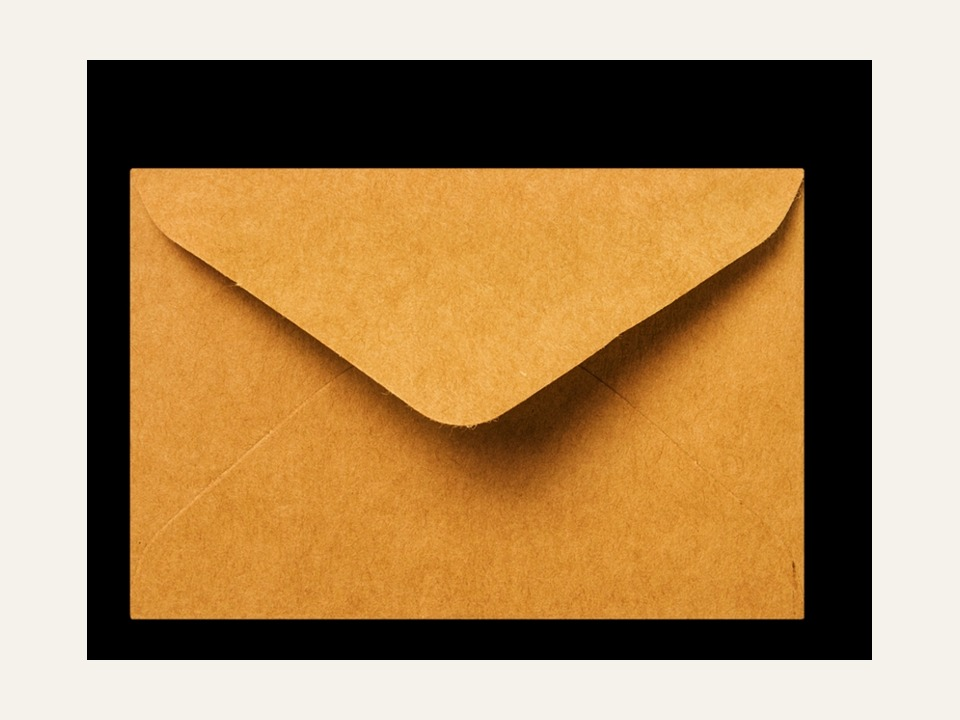
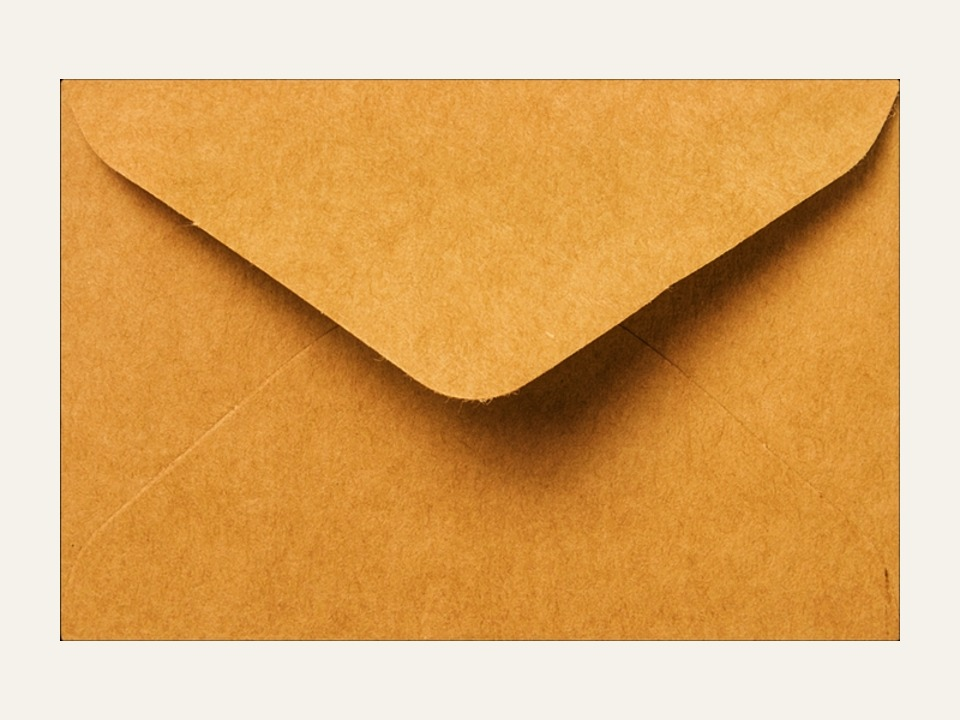
Remove envelope black frame and publish list 29 review packet

diff --git a/docs/native-language-review-checklist.md b/docs/native-language-review-checklist.md
@@ -1,6 +1,6 @@
 # Native-language editorial review checklist
 
-Status: **not yet reviewed by a native-language editor**. Prepared 2026-11-17 after the twenty-eighth practice update.
+Status: **not yet reviewed by a native-language editor**. Prepared 2026-11-17 after the twenty-ninth practice update.
 
 This is a handoff for a native German teacher/editor and an Egyptian Arabic reviewer. Passing automated checks does not establish idiomatic language, suitable difficulty or sound teaching. Level labels organize practice; they are not an official CEFR/Goethe mapping or assessment.
 
@@ -174,6 +174,17 @@ Sources were checked for these forms; that is not native editorial sign-off. Eac
 | [ ] | `/lessons/handarbeit/` | Review Stricknadel / Stricknadeln, Häkelnadel / Häkelnadeln, Stickrahmen / same-form plural and Egyptian Arabic senses. Three real photo cues; the needle source is rotated/cropped to the complete unbranded group. Check clarity at phone size. Source/licence checks are not native editorial approval. |
 | [ ] | `/dialogues/` and `/dictation/` | Review fresh question/translation/role state after switching hashes between dialogues; earlier progress must stay saved. New focused dictation has 40 sentences. Listen on a real German device voice; mocked utterances check text selection, not pronunciation. |
 
+### Twenty-ninth update: additional pending targets
+
+| Done | Route / location | What needs a human decision |
+| --- | --- | --- |
+| [ ] | `/reading/alltag-a1-umschlag/` | Check card/envelope/address language, today at six versus tomorrow, and all 4 answers. Check the linked dialogue **Noch Platz für einen Gruß**, family terms and its 3 answers separately. |
+| [ ] | `/reading/alltag-a2-briefablage/` | Check Ablage, beschriftet, flache Schachtel, oberes Fach, privacy sequence and all 4 answers. Review **Welche Umschläge sind frei?**, asking before taking, and its 3 answers. |
+| [ ] | `/reading/alltag-b1-stempeltisch/` | Check Abdruck, Zusage, Rückmeldung and decorative mark versus confirmed place. Do not turn the invented private invitation into real registration policy. Review **Nur ein Muster, keine Zusage**, privacy wording and all 7 evidence answers across the pair. |
+| [ ] | `/lessons/briefplatz/` | Check der Brieföffner / same-form plural, der Briefumschlag / Briefumschläge, der Stempel / same-form plural; Egyptian meanings and real unbranded photos. Does each photo clearly show the intended noun? Stamp is cropped away from branded ink bottle; Credits preserve sources/modifications. |
+| [ ] | `/grammar/akkusativ/`, `/grammar/possessiv/`, `/grammar/modalverben/`, `/grammar/imperativ/`, `/grammar/komparativ/`, `/grammar/dativ-praepositionen/` | Review the 24 appended correspondence-desk prompts/explanations and alternative correct forms. Existing saved question IDs must not move. |
+| [ ] | `/perfekt/` and `/dictation/` | Check all 6 unchanged Perfekt-context prompts with new locks/counts, selected-choice feedback and temporary scoped reset. Review the 41 new dictation sentences with a real German voice, separate from mocked pronunciation-free QA. No points/history are written by these two practice tools. |
+
 ## 2. Apply these checks to each text or exercise
 
 - [ ] German: spelling, capitalization, articles, cases, agreement, tense, word order and punctuation.
@@ -188,7 +199,7 @@ Sources were checked for these forms; that is not native editorial sign-off. Eac
 
 ## 3. Wider review queue after the focused batch
 
-This is an inventory, not completed review. Snapshot: **712 photo nouns / 73 topics**, **102 reading texts / 361 reading questions**, **41 core grammar topics / 622 core grammar questions**, **42 general dialogues**, plus **16 separate Egyptian-context dialogues**, **72 present-focus cells**. Separate specialist tools contain additional material not counted in the core grammar figure.
+This is an inventory, not completed review. Snapshot: **715 photo nouns / 74 topics**, **105 reading texts / 373 reading questions**, **41 core grammar topics / 646 core grammar questions**, **45 general dialogues**, plus **16 separate Egyptian-context dialogues**, **72 present-focus cells**. Separate specialist tools contain additional material not counted in the core grammar figure.
 
 | Queue | Reader entry point | Editable content |
 | --- | --- | --- |
@@ -200,7 +211,7 @@ This is an inventory, not completed review. Snapshot: **712 photo nouns / 73 top
 | Higher-level specialist material | `/b1/`, `/b2/`, `/c1/`, `/c2/` | Corresponding `*-grammar.ts`, `*-themes.ts`, reading and writing files; prioritize nuance and alternative valid answers |
 | Product language | `/progress/`, `/level-check/`, `/certificate/A1/` | Verify local-only records, repeated-attempt counts and non-official completion language; do not turn practice scores into proficiency claims |
 
-Reading distribution: A1 16 · A2 29 · B1 27 · B2 12 · C1 9 · C2 9. These are content counts, not evidence of full level coverage.
+Reading distribution: A1 17 · A2 30 · B1 28 · B2 12 · C1 9 · C2 9. These are content counts, not evidence of full level coverage.
 
 ## 4. Record findings so a fix is actionable
 

diff --git a/docs/twentyninth-product.md b/docs/twentyninth-product.md
@@ -1,11 +1,11 @@
 # Correspondence-desk extension and Perfekt context clarity
 
 - Append 24 six-topic grammar questions, bilingual explanations and unique supplied options. Existing topic/index identities remain intact.
-- Three checked photo nouns: der Brieföffner (same plural), der Briefumschlag / Briefumschläge, der Stempel (same plural). Earlier 712 words / 73 topics remain an exact prefix. Real unbranded objects, no people. Opener/envelope padded; stamp cropped away from a branded bottle and padded. Original author/license and modification notes remain in Credits. Brieföffner photo Sarefo CC BY-SA 4.0; envelope Taibhseoir CC BY-SA 4.0; stamp 5snake5 CC0.
+- Three checked photo nouns: der Brieföffner (same plural), der Briefumschlag / Briefumschläge, der Stempel (same plural). Earlier 712 words / 73 topics remain an exact prefix. Real unbranded objects, no people. Opener padded; envelope cropped to remove its black background frame and padded; stamp cropped away from a branded bottle and padded. Original author/license and modification notes remain in Credits. Brieföffner photo Sarefo CC BY-SA 4.0; envelope Taibhseoir CC BY-SA 4.0; stamp 5snake5 CC0.
 - Perfekt context retains all six existing prompts, choices and explanations. Adds synchronous one-choice locks, answered/correct counts, question fieldsets, selected-answer feedback, explicit temporary/no-saved-history wording, scoped reset and heading focus. No points or learner-storage writes.
 - Expanded axe coverage found modal-meaning controls referencing feedback before it existed. Both modal/Perfekt feedback controls now reference their target only when mounted.
 
-Typecheck/study/build pass. Browser: 696 grammar answers over all six extended banks, 12 photo quiz answers, 48 Perfekt context answers including all-correct/all-wrong, 48 axe states at Arabic/English 320/390px. Complete photo objects inspected at 390px in both languages. Earlier grammar fixtures remain valid; tableware regression now selects its stable pre-extension segment. Production worker r1kx9t1phAVbYCLJ3P4Xt.
+Typecheck/study/build pass. Browser: 696 grammar answers over all six extended banks, 12 photo quiz answers, 48 Perfekt context answers including all-correct/all-wrong, 48 axe states at Arabic/English 320/390px. Complete photo objects inspected at 390px in both languages. Earlier grammar fixtures remain valid; tableware regression now selects its stable pre-extension segment. Production worker VksIBmMzDzx7xL8pbrOvO.
 
 Forms: https://de.wiktionary.org/wiki/Brief%C3%B6ffner ; https://www.duden.de/rechtschreibung/Briefumschlag ; https://www.dwds.de/wb/Briefumschlag ; https://de.wiktionary.org/wiki/Stempel
 Photos: https://commons.wikimedia.org/wiki/File:Bakelite_letter_opener.jpg ; https://commons.wikimedia.org/wiki/File:Brown_envelope_2.jpg ; https://commons.wikimedia.org/wiki/File:Stempel%2C_Stempelkissen%2C_Stempelfarbe.jpg

diff --git a/docs/twentyninth-qa.md b/docs/twentyninth-qa.md
@@ -1,0 +1,18 @@
+# List 29 final QA
+
+Production worker: VksIBmMzDzx7xL8pbrOvO. Typecheck, source-level study regressions and production build pass. Original content and same six Perfekt-context prompts were not generated from user records.
+
+Arabic/English at 320/390px:
+- 132 reading/listening/dialogue answers across 36 sessions; exact supporting quotes, locked options, transcript gate and linked practice pass; 36 axe states.
+- 696 correct grammar answers across all six extended banks; topic/index schedule history verified. 12 photo-quiz answers, all 3 images loaded; 32 axe states together.
+- 48 Perfekt-context answers across two runs per viewport/language, including 6/6 then 0/6. Double-input lock, selected choice, reset/focus and no learner-storage writes pass; 16 axe states.
+- 41 new dictation sentences, all 164 language/viewport selections exact-match and German-language speech calls verified; 4 axe states. Speech mocked for repeatability, not human pronunciation approval.
+- 126 route/viewport checks including 1280px: 200 responses, no horizontal overflow, broken images or runtime errors. Six cached learner routes load with the network off; an unvisited route shows the offline fallback.
+
+Total: 888 scored/practice answers, 164 dictation selections, 88 axe states. These checks do not establish native language quality or proficiency alignment.
+
+Identity regressions: all earlier 622 grammar rows per topic/index, 102 readings and 42 general dialogues are unchanged prefixes. Earlier 712 nouns / 73 topics unchanged. Current inventory: 715 photo nouns / 74 topics, 105 readings / 373 reading questions, 646 core grammar questions / 41 topics, 45 general dialogues plus 16 separate Egyptian-context dialogues.
+
+Updated native-review checklist: 15-page PDF and editable Markdown; six new focused rows, earlier pending rows retained, no sign-offs added. Changed pages 13-15 visually inspected, including the complete new table and full inventory. Native German/Egyptian Arabic editing and real-device voice listening remain pending. Photos inspected at 390px; no faces, brands or object clipping in the new lesson. Screenshot evidence supplied with handoff. Parent owns deployment; no backend/purchases/auth changes.
+
+Photo correction after parent review: cropped the envelope to its object bounds, removing the black background frame. The complete envelope still fits the padded 4:3 image. Rebuilt and visually inspected the new 390px lesson and its cropped/padded Credits entry. Corrected image carries a modification note.
